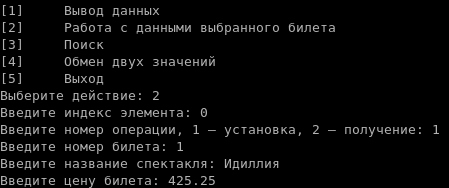
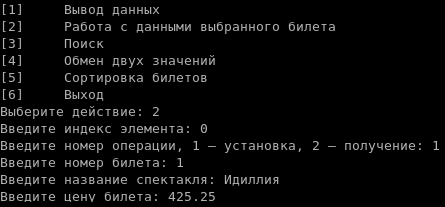
* 1406938 C (5 labs): добавил сортировку, сделал скриншоты

Changed region(s): [[0.0, 0.0266, 0.9933, 0.8245], [0.0, 0.8511, 0.6427, 1.0], [0.0, 0.0, 0.0584, 0.0798]]

diff --git a/C++/1406938_5_labs/tasks/5/main.c b/C++/1406938_5_labs/tasks/5/main.c
@@ -14,9 +14,10 @@
 #define MENU_ACTION 2
 #define MENU_SEARCH 3
 #define MENU_SWAP   4
-#define MENU_EXIT   5
+#define MENU_SORT   5
+#define MENU_EXIT   6
 
-typedef struct {
+typedef struct ticket_t {
 	unsigned num;
 	char name[MAX_NAME_SIZE];
 	float price;
@@ -96,11 +97,41 @@ ticket_t* find_ticket_by_price(ticket_t* tickets, unsigned count, float price) {
 	return NULL;
 }
 
+// обмен двух билетов местами
+
 void swap_tickets(ticket_t* a, ticket_t* b) {
 	ticket_t c;
 	memcpy(&c, a, sizeof(ticket_t));
 	memcpy(a, b, sizeof(ticket_t));
 	memcpy(b, &c, sizeof(ticket_t));
+}
+
+// сортировка пузырьком
+
+typedef float (*compare_t)(const ticket_t* a, const ticket_t* b);
+
+void bubble_sort(ticket_t* tickets, unsigned count, compare_t compare) {
+	for(unsigned bound = count - 1; bound > 0; bound--) {
+		for(unsigned i = 0; i < bound; i++) {
+			if(compare(&tickets[i], &tickets[i + 1]) > 0) {
+				swap_tickets(&tickets[i], &tickets[i + 1]);
+			}
+		}
+	}
+}
+
+// функции обратного вызова для сортировки
+
+float ticket_compare_by_num(const ticket_t* a, const ticket_t* b) {
+	return (int)a->num - (int)b->num;
+}
+
+float ticket_compare_by_name(const ticket_t* a, const ticket_t* b) {
+	return strcmp(a->name, b->name);
+}
+
+float ticket_compare_by_price(const ticket_t* a, const ticket_t* b) {
+	return a->price - b->price;
 }
 
 int check_index(unsigned count, unsigned index) {
@@ -114,6 +145,7 @@ int check_index(unsigned count, unsigned index) {
 }
 
 // точка входа программы
+
 int main( int argc, char* argv[] )
 {
 	unsigned i, j, n, menu, action;
@@ -129,6 +161,7 @@ int main( int argc, char* argv[] )
 		printf("[%d]\tРабота с данными выбранного билета\n", MENU_ACTION);
 		printf("[%d]\tПоиск\n", MENU_SEARCH);
 		printf("[%d]\tОбмен двух значений\n", MENU_SWAP);
+		printf("[%d]\tСортировка билетов\n", MENU_SORT);
 		printf("[%d]\tВыход\n", MENU_EXIT);
 		printf("Выберите действие: ");
 		scanf("%u", &menu);
@@ -201,6 +234,26 @@ int main( int argc, char* argv[] )
 			}
 			swap_tickets(&tickets[i], &tickets[j]);
 			print_tickets(tickets, 0, n);
+			break;
+		case MENU_SORT:
+			printf("Введите индекс поля, по которому будет выполняться сортировка (0 - номер, 1 - название, 2 - цена): ");
+			scanf("%u", &i);
+			switch(i) {
+			case 0:
+				bubble_sort(tickets, n, ticket_compare_by_num);
+				print_tickets(tickets, 0, n);
+				break;
+			case 1:
+				bubble_sort(tickets, n, ticket_compare_by_name);
+				print_tickets(tickets, 0, n);
+				break;
+			case 2:
+				bubble_sort(tickets, n, ticket_compare_by_price);
+				print_tickets(tickets, 0, n);
+				break;
+			default:
+				printf("Номер может быть от 0 до 2\n");
+			}
 			break;
 		case MENU_EXIT:
 			printf("Завершение работы\n");
